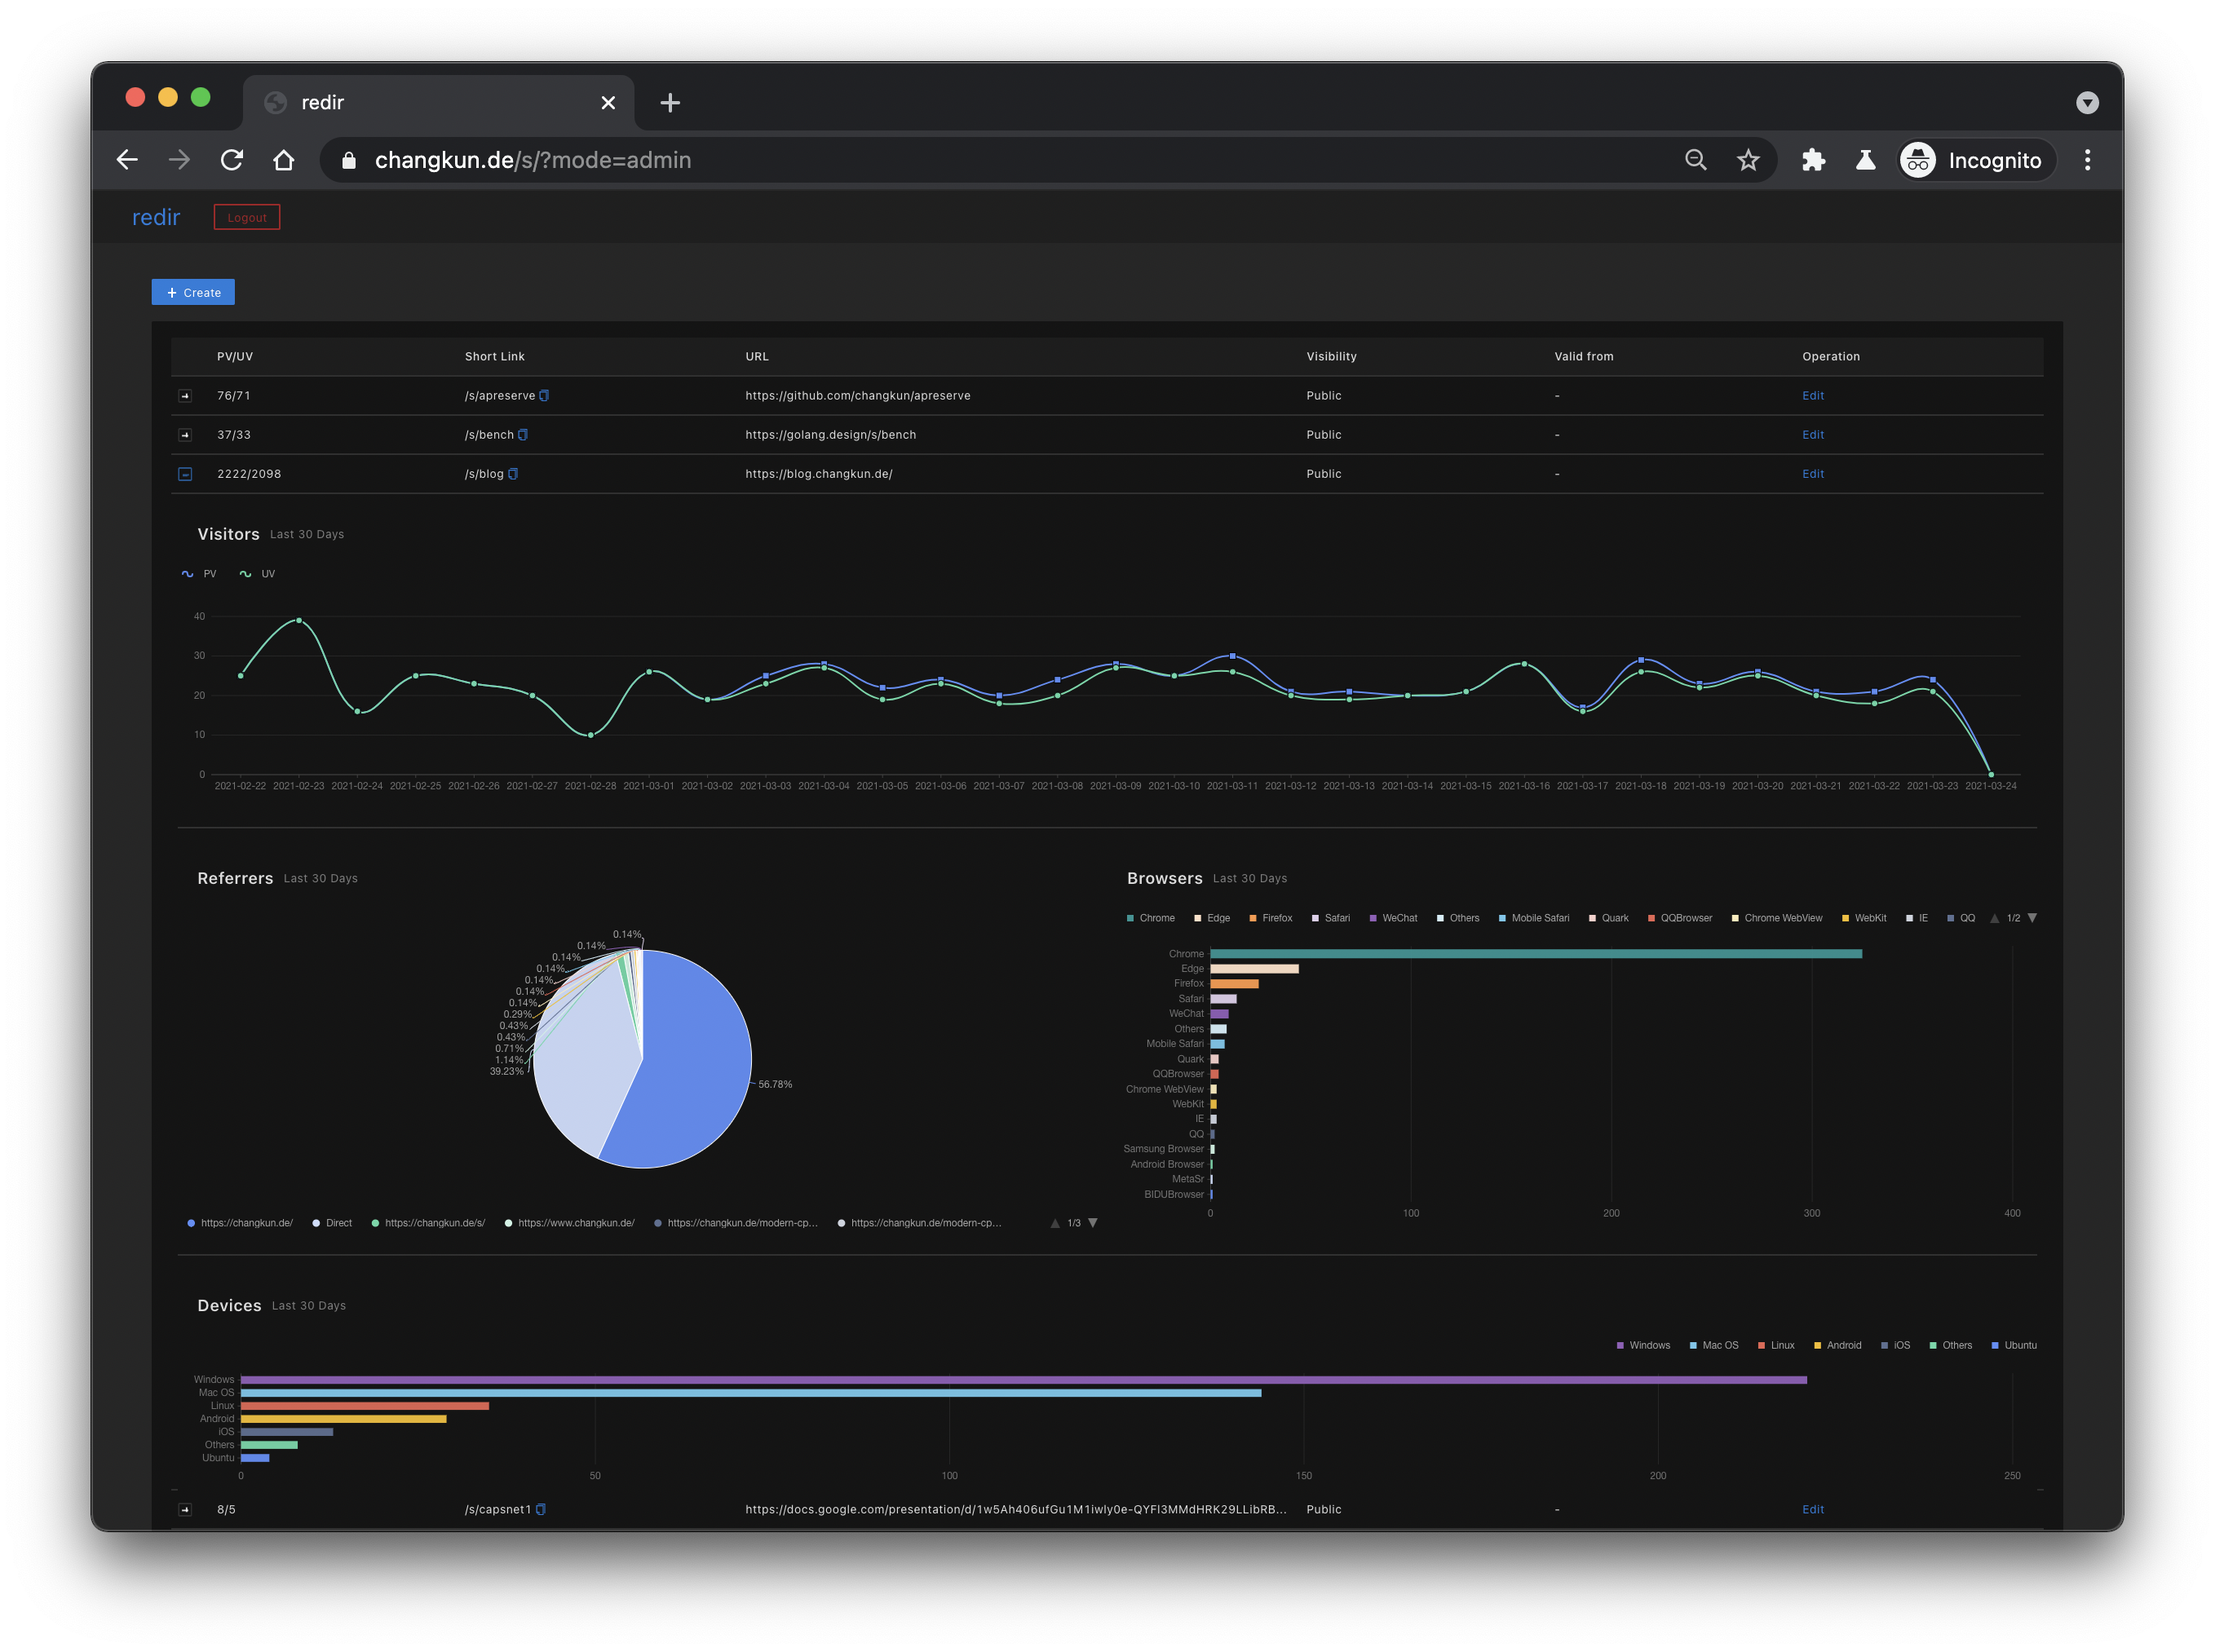
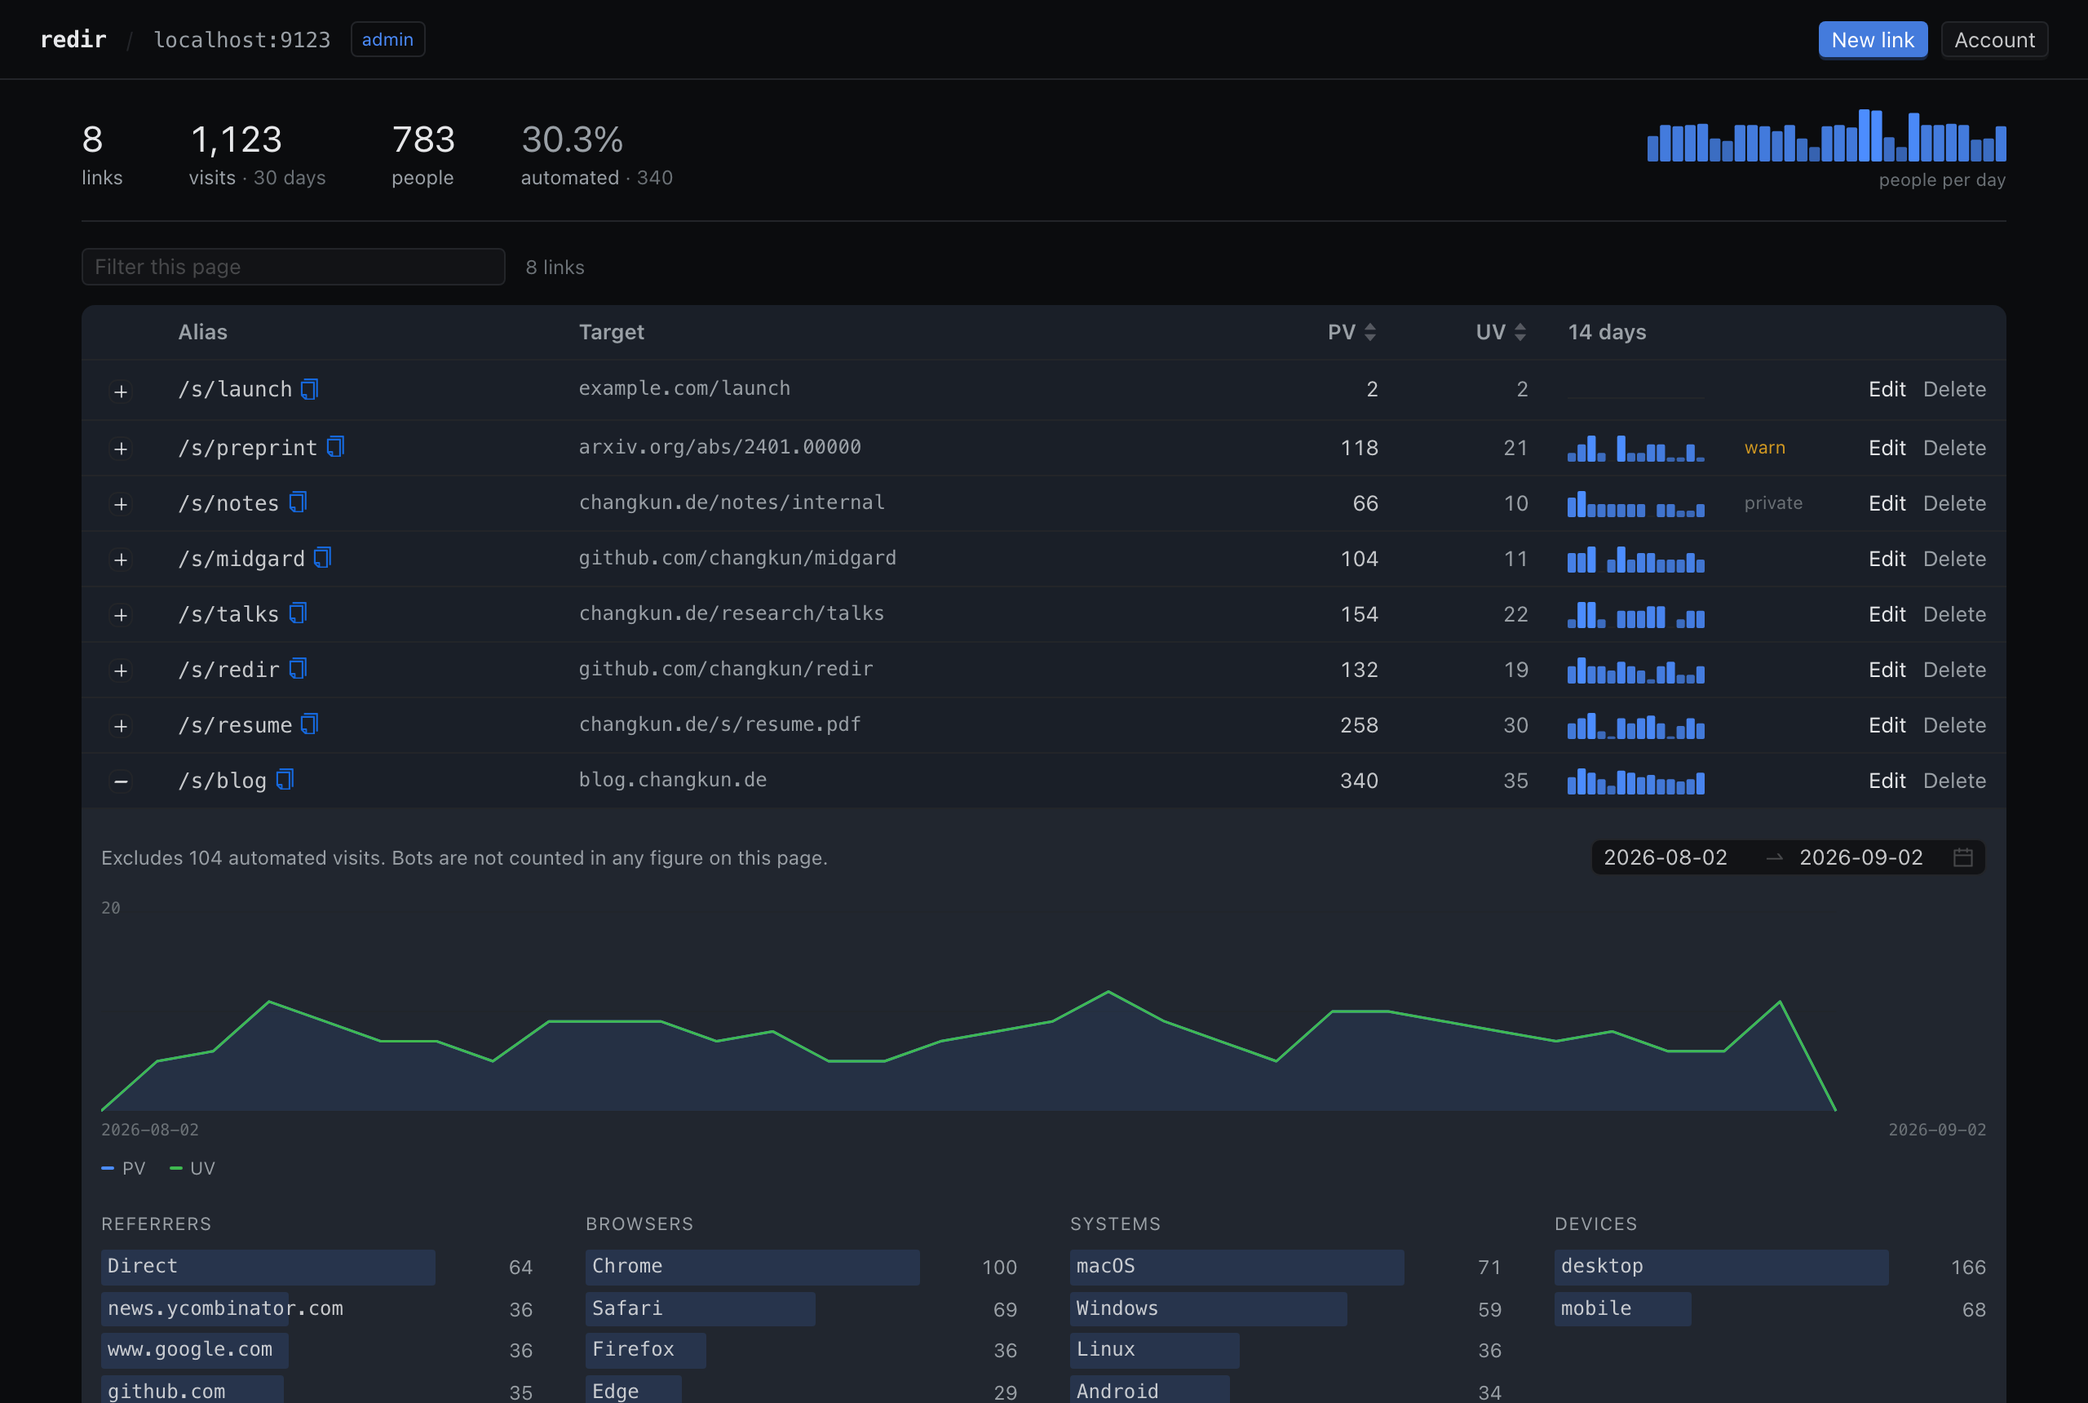
docs: refresh what had gone stale
The screenshots were of a dashboard that no longer exists, taken in 2022.
They are replaced with captures of the console, the public index, and the
two pages a link can show instead of redirecting.

The API reference listed three stat modes; there are now eight, and it
described neither the overview nor the series that travels with a page.
It also did not say that automated traffic is excluded from every mode
that reports people, which is the single fact most likely to make someone
think the numbers are wrong.

The README claimed statistics by location, which redir has never
recorded, and described neither PostgreSQL nor serving several sites from
one process. Both are how it works now.

Taking the screenshots found a real fault. The public index rendered a
Target column of em-dashes: the listing withholds target URLs by design,
so the column could never hold anything. The column is gone on that page,
and an alias there is now a link, since a visitor is on it to follow one.

diff --git a/dashboard/src/components/LinkTable.jsx b/dashboard/src/components/LinkTable.jsx
@@ -64,6 +64,10 @@ const LinkTable = ({ isAdmin, statsMode, devMode, reloadKey, onLoaded }) => {
     )
   }, [rows, query])
 
+  // The alias is a link on the public page, because a visitor is there to
+  // follow one. In the console it is not: a row expands to its detail,
+  // and a click that sometimes navigates away and sometimes opens a panel
+  // is a click you cannot trust.
   const columns = [
     {
       title: 'Alias',
@@ -73,11 +77,21 @@ const LinkTable = ({ isAdmin, statsMode, devMode, reloadKey, onLoaded }) => {
           copyable={{ text: aliasURL(r.alias), tooltips: ['Copy link', 'Copied'] }}
           style={{ fontFamily: mono, fontSize: 13 }}
         >
-          {aliasPath(r.alias)}
+          {isAdmin ? (
+            aliasPath(r.alias)
+          ) : (
+            <a href={aliasPath(r.alias)}>{aliasPath(r.alias)}</a>
+          )}
         </Typography.Text>
       ),
     },
-    {
+  ]
+
+  if (isAdmin) {
+    // The public listing carries no target, by design: it would let the
+    // index be used to enumerate where every link goes. A column that can
+    // never hold anything is worse than no column, so it only exists here.
+    columns.push({
       title: 'Target',
       dataIndex: 'url',
       render: (url) =>
@@ -101,10 +115,7 @@ const LinkTable = ({ isAdmin, statsMode, devMode, reloadKey, onLoaded }) => {
         ) : (
           <span style={{ color: tokens.textFaint }}>—</span>
         ),
-    },
-  ]
-
-  if (isAdmin) {
+    })
     columns.push(
       {
         title: 'PV',

diff --git a/docs/api.md b/docs/api.md
@@ -1,47 +1,139 @@
-# Redir APIs
+# redir APIs
 
-All possible routers: `/s`, and `/x`. The `/s` is the most
-complicated router because we are limited to use these prefixes
-(for many reasons, e.g. deploy to an existing domain that served a lot
-different routers. The prefix is configurable).
+Everything is served under two prefixes, `/s` and `/x`, both configurable.
+`/s` carries the redirects, the pages and the JSON the console reads,
+because a deployment often shares a domain with something else and cannot
+claim more of it.
 
-Thus, all kinds of data, pages, static files are served under this router.
+Responses are scoped to the host the request arrived on. One process
+serves several sites, and each has its own aliases and its own
+statistics, so the same path answers differently on each.
+
+## GET /s/{alias}
+
+Redirects, or serves a page instead when the link is not ready:
+
+| Situation | Response |
+| --- | --- |
+| The link is valid | `307` to its target |
+| `valid_from` is in the future | a countdown page |
+| The target is external and the link is not trusted | a warning page |
+| The target ends in `.pdf` | the document, served rather than redirected |
 
 ## GET /s
 
-The GET request query parameters of `/s` are listed as follows:
+Without `mode`, serves the public index.
 
-- `mode`, possible options: `stats`, `index`, `index-pro`
-  + `admin`, access admin dashboard
-  + `index-pro` mode, admin only
-    - `ps`, page size
-    - `pn`, page number
-  + `index` mode
-    - `ps`, page size
-    - `pn`, page number
-  + `stats` mode
-    - `a`, alias for stat data
-    - `stat`, possible options: `referer`, `ua`, `time`
-      - `t0`, start time
-      - `t1`, end time
+### `mode=admin`
 
-## POST /s
+The console. Requires a session; see [Login](../README.md#login).
 
-The POST request body of `/s` is in the following format:
+### `mode=index` and `mode=index-pro`
 
-```json
+A page of links. `index` is public and `index-pro` requires a session.
+
+| Parameter | Meaning |
+| --- | --- |
+| `ps` | page size |
+| `pn` | page number, from 1 |
+
+```jsonc
 {
-    "op": "create",
-    "alias": "awesome-link",
-    "data": {
-        "alias": "awesome-link",
-        "url": "https://github.com/changkun",
-        "private": true,
-        "valid_from": "2022-01-01T00:00:00+00:00"
+  "data": [
+    {
+      "alias": "blog",
+      "url": "https://blog.changkun.de/",  // empty in the public listing
+      "private": false,
+      "trust": true,
+      "valid_from": "0001-01-01T00:00:00Z", // the zero time means always
+      "created_by": "changkun",
+      "updated_by": "changkun",
+      "pv": 31907,                          // zero in the public listing
+      "uv": 26839
     }
+  ],
+  "page": 1,
+  "total": 184,
+  // Only in index-pro: fourteen days of non-bot page views per alias, one
+  // value per day. It travels with the page because a sparkline on every
+  // row cannot be one request per row.
+  "series": { "blog": [3, 7, 12, 9, 4, 6, 8, 2, 0, 5, 9, 11, 6, 4] }
 }
 ```
 
+The public listing discloses neither the target URL nor the counts.
+
+### `mode=overview`
+
+Totals for one site. Requires a session.
+
+| Parameter | Meaning |
+| --- | --- |
+| `t0`, `t1` | range, `YYYY-MM-DD`; defaults to the last seven days |
+
+```jsonc
+{
+  "links": 184,
+  "visits": 348465,   // everything recorded, so it reconciles with the store
+  "people": 151006,   // visits + bots split the total
+  "bots": 197459,
+  "series": [{ "day": "2026-08-30", "pv": 812, "uv": 403 }]
+}
+```
+
+### `mode=stats`
+
+One alias, one breakdown.
+
+| Parameter | Meaning |
+| --- | --- |
+| `a` | the alias |
+| `stat` | `time`, `referer`, `browser`, `os`, `device`, `bots`, `ua` |
+| `t0`, `t1` | range, `YYYY-MM-DD`; defaults to the last seven days |
+
+**Automated traffic is excluded from every mode except `bots` and `ua`.**
+Roughly half of all recorded visits are crawlers, so counting them would
+report machines as readers.
+
+| `stat` | Response |
+| --- | --- |
+| `time` | `[{"time":"2026-08-30T14:00:00Z","pv":12,"uv":7}]`, bucketed by hour in UTC |
+| `referer` | `[{"name":"news.ycombinator.com","count":81}]`, grouped by host; an absent referrer is `Direct` |
+| `browser`, `os`, `device` | `[{"name":"Chrome","count":1519}]`; an unidentified value is `Unknown` |
+| `bots` | `{"pv":653,"uv":417}`, what the other modes leave out |
+| `ua` | `[{"ua":"Mozilla/5.0 …","count":12}]`, raw strings including bots |
+
+`ua` exists to inspect a suspicious entry in the grouped modes. It is the
+only mode that returns unaggregated strings, and nothing on the console
+draws it.
+
+## POST /s
+
+Creates, updates and deletes links. Requires a session.
+
+```jsonc
+{
+  "op": "create",           // create, update, delete, fetch
+  "alias": "awesome-link",  // which link to act on; for update it is the
+                            // existing alias, and data.alias may rename it
+  "data": {
+    "alias": "awesome-link",
+    "url": "https://github.com/changkun",
+    "private": false,       // hidden from the public index
+    "trust": true,          // false shows a warning before leaving the site
+    "valid_from": "2026-01-01T00:00:00+00:00" // omit for always
+  }
+}
+```
+
+A refusal answers with a status and `{"message": "..."}` explaining it.
+
+## GET /x/{path}
+
+Serves a `go-import` meta tag so `go get` resolves `<host>/x/<repo>` to
+the VCS, and redirects a browser to `pkg.go.dev`. The organisation comes
+from the site the request arrived on, so each site resolves to its own.
+
 ## License
 
-MIT &copy; 2020-2021 [Changkun Ou](https://changkun.de)
+MIT &copy; 2020-2026 [Changkun Ou](https://changkun.de)

diff --git a/README.md b/README.md
@@ -10,7 +10,8 @@ Full-featured, self-hosted URL shortener written in Go.
 |**Access Control**| 1) Private links won't be listed in public index page; 2) Allow link to be accessible only after a configured time point; 3) Allow warn to visitors about external URL redirects (for liability control)|
 |**Public Indexes**| Router `/s` provides a list of avaliable short links |
 |**Admin Dashboard**| Dashboard `/s?mode=admin` provides full management ability |
-|**Visitor Analysis**| Statistics visualization regarding PV, UV, Referrer, Devices, Location, etc |
+|**Multiple Sites**| One process serves several domains, each with its own links and its own statistics |
+|**Visitor Analysis**| PV/UV over time, referring hosts, browsers, systems and devices, with automated traffic classified and excluded |
 |**GDPR Compliant**| Including imprint, privacy, contact pages; optional warning about external redirects, etc. |
 
 ## Documentations
@@ -22,11 +23,30 @@ Full-featured, self-hosted URL shortener written in Go.
 
 ## Web Interfaces
 
-There are three major pages available in redir.
+### Operator console
 
-| Admin Dashboard | Access Control | Public Indexes |
-|:---------------:|:--------------:|:--------------:|
-| Router: `/s?mode=admin` for management:<br/>![](./.github/assets/admin.png) | Control a link should only be available after a certain time:<br/>![](./.github/assets/wait.png) | Router `/s` provides public accessibility to see all public links:<br/>![](./.github/assets/index.png) |
+`/s?mode=admin`. Totals first, the links second, one link's detail third.
+Automated traffic is classified where a visit is recorded and left out of
+every figure, with a count saying how much was left out.
+
+![The redir operator console](./.github/assets/admin.png)
+
+### Public index
+
+`/s`. The links a visitor may follow. It carries no counts and does not
+disclose where a link goes, so the index cannot be used to enumerate
+targets.
+
+![The public index](./.github/assets/index.png)
+
+### Access control
+
+A link can be held until a time, and a link leaving the site can warn
+first.
+
+| Not yet valid | Leaving the site |
+|:---:|:---:|
+| ![A link that is not available yet](./.github/assets/wait.png) | ![The warning shown before an external redirect](./.github/assets/warn.png) |
 
 ## CLI Usage
 
@@ -80,7 +100,8 @@ configuration file:
 `latere` runs the OAuth 2.0 authorization code flow with PKCE and keeps the
 result in an encrypted session cookie. It needs an OAuth client registered
 for your deployment, whose `redirect_uris` include `<host>/s/.auth/callback`
-and whose `allowed_origins` include `<host>`. Configure it with the
+and whose `allowed_origins` include `<host>`. Every site gets its own
+callback, so a deployment serving two domains registers both. Configure it with the
 environment variables in [.env.template](./.env.template); copy that file to
 `.env` and fill it in.
 
@@ -91,6 +112,53 @@ rejects every login.
 
 The dashboard then offers Logout at `/s/.auth/logout`, which ends the
 session.
+
+## Storage
+
+redir stores its links and visits in PostgreSQL. Create a database and a
+role for it, and point `store` at them:
+
+```sql
+CREATE ROLE redir LOGIN PASSWORD '...';
+CREATE DATABASE redir OWNER redir;
+```
+
+```yaml
+store: postgres://redir:...@postgres:5432/redir?sslmode=disable
+```
+
+The schema is applied at start up from migrations embedded in the binary,
+so nothing else has to be run first. Each start applies what is missing
+and nothing more.
+
+Versions up to `v0.7.0` also read MongoDB. `v0.7.0` is the last release
+that speaks both, and is the one to use if data has to be moved out of it.
+
+## Serving several sites
+
+One process can serve several domains. The store keys links by hostname,
+so each site has its own namespace of aliases and its own statistics, and
+which site a request belongs to is decided by the `Host` header rather
+than by configuration.
+
+Only what differs needs configuring:
+
+```yaml
+host: https://changkun.de
+x:
+  repo_path: https://github.com/changkun
+hosts:
+  golang.design:
+    # /x/ import paths and the VCS probe resolve here instead.
+    repo_path: https://github.com/golang-design
+    # The impressum and privacy pages name an operator, so they do not
+    # follow onto another domain unless it is the same one.
+    legal: false
+```
+
+A `Host` header naming no configured site falls back to the primary one.
+It is client-controlled and reaches the store as part of a link's
+identity, so it is matched rather than trusted.
 
 ## Deployment
 
@@ -116,10 +184,13 @@ $ redir -s # run the server, require an external database
 Build and deploy with Docker. The image builds the dashboard and the
 server inside itself, so a deploy host needs only Docker:
 
-```
+```sh
 $ docker network create traefik_proxy
 $ make build && make up
 ```
+
+The container reads `data/redirconf.yml` from the host and needs to reach
+PostgreSQL, which for a shared instance means joining its network as well.
 
 ## Contributing
 
@@ -128,4 +199,4 @@ what you like and what you think is missing. PRs are also welcome.
 
 ## License
 
-MIT &copy; 2020-2021 [Changkun Ou](https://changkun.de)
+MIT &copy; 2020-2026 [Changkun Ou](https://changkun.de)

diff --git a/docs/trouble.md b/docs/trouble.md
@@ -13,4 +13,4 @@ $ echo "export GOPRIVATE=changkun.de/x" >> ~/.zshrc
 
 ## License
 
-MIT &copy; 2020-2021 [Changkun Ou](https://changkun.de)
+MIT &copy; 2020-2026 [Changkun Ou](https://changkun.de)

diff --git a/docs/gdpr.md b/docs/gdpr.md
@@ -8,4 +8,4 @@ There are several features are supported for GDPR:
 
 ## License
 
-MIT &copy; 2020-2021 [Changkun Ou](https://changkun.de)
+MIT &copy; 2020-2026 [Changkun Ou](https://changkun.de)

diff --git a/docs/users.md b/docs/users.md
@@ -20,4 +20,4 @@ The current known users:
 
 ## License
 
-MIT &copy; 2020-2021 [Changkun Ou](https://changkun.de)
+MIT &copy; 2020-2026 [Changkun Ou](https://changkun.de)
